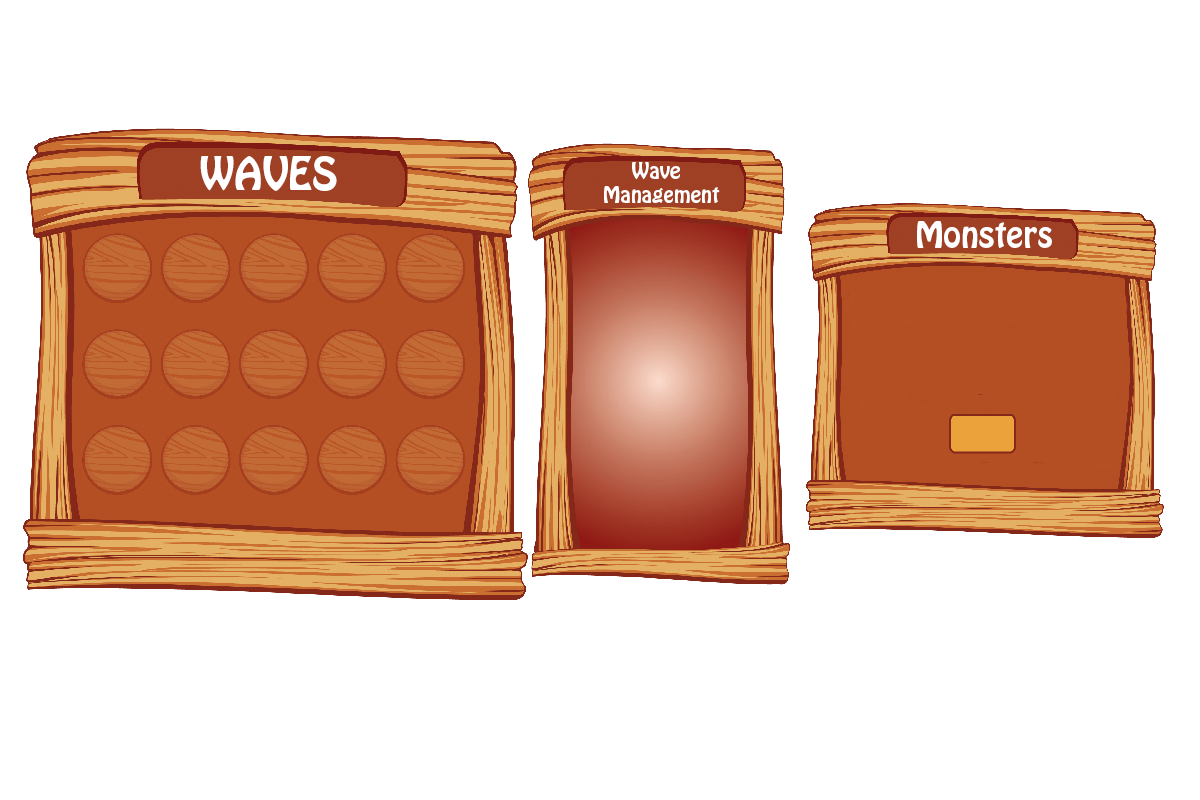
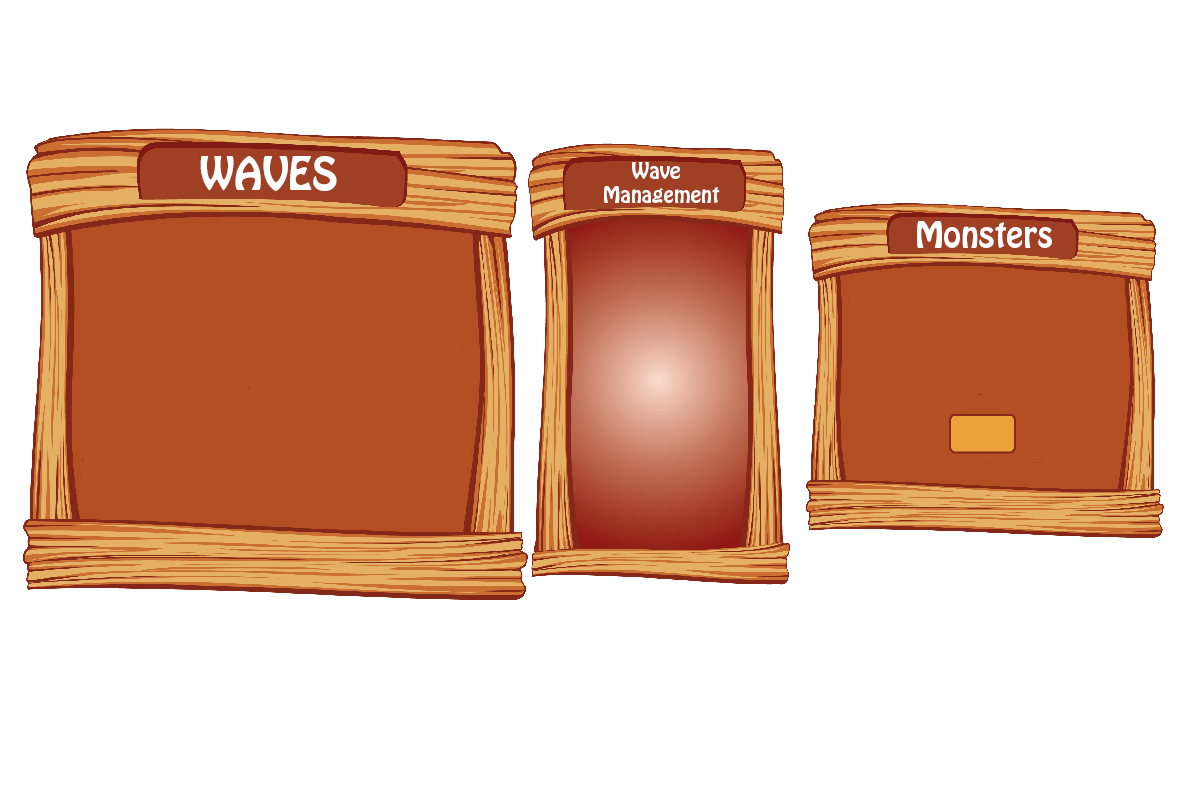
Level background optimisation. Pause Menu working.

Changed region(s): [[0.0617, 0.5312, 0.4008, 0.625], [0.0617, 0.4062, 0.4008, 0.5], [0.0617, 0.2812, 0.4008, 0.375]]

diff --git a/src/warcraftTD/WorldGame.java b/src/warcraftTD/WorldGame.java
@@ -1,6 +1,7 @@
 package warcraftTD;
 
 import warcraftTD.hud.InterfaceGame;
+import warcraftTD.hud.InterfacePause;
 import warcraftTD.hud.MainMenu;
 import warcraftTD.libs.StdDraw;
 import warcraftTD.monsters.Monster;
@@ -12,10 +13,12 @@ import warcraftTD.utils.Wallet;
 
 import javax.sound.sampled.LineUnavailableException;
 import javax.sound.sampled.UnsupportedAudioFileException;
+import java.awt.*;
 import java.io.IOException;
 import java.lang.reflect.Constructor;
 import java.lang.reflect.InvocationTargetException;
 import java.util.*;
+import java.util.List;
 import java.util.stream.Collectors;
 
 public class WorldGame extends World {
@@ -23,12 +26,17 @@ public class WorldGame extends World {
   private List<Monster> monsters = new ArrayList<Monster>();
   private int totalMonsterAmount;
 
-
+  private boolean needKeyRelease;
+  private boolean pause;
   // l'ensemble des cases du chemin
   private List<Position> paths;
 
+  private Image pauseBackground;
+  private Image levelBackground;
+
   // L'interface du jeu
   private InterfaceGame HUD;
+  private InterfacePause hudPause;
 
   // le porte monnaie du joueur
   private Wallet player_wallet;
@@ -154,6 +162,20 @@ public class WorldGame extends World {
       this.totalMonsterAmount = this.waves.get(0).monsterAmount();
     }
 
+    this.needKeyRelease = false;
+    this.pause = false;
+    this.initTerrain();
+  }
+
+  public void initTerrain(){
+    this.drawBackground();
+    if (this.displayWater) {
+      this.drawWater();
+    }
+    this.drawPath();
+    StdDraw.show();
+    StdDraw.save("images/currentlevel.png");
+    this.levelBackground = StdDraw.pictureNget(0.5,0.5,"images/currentlevel.png",1.0,1.0);
   }
 
   /**
@@ -347,6 +369,7 @@ public class WorldGame extends World {
    */
   @Override
   public void drawInfos() {
+    if(this.pause) this.hudPause.updateInterface(StdDraw.mouseX(), StdDraw.mouseY(), this.getDelta_time());
     this.HUD.updateInterface(StdDraw.mouseX(), StdDraw.mouseY(), this.getDelta_time());
   }
 
@@ -440,6 +463,10 @@ public class WorldGame extends World {
     }
   }
 
+  public void drawLevel(){
+    StdDraw.picture(0.5, 0.5, "images/currentlevel.png", 1.0, 1.0);
+  }
+
   /**
    * Met à jour toutes les informations du plateau de jeu ainsi que les déplacements des monstres et les attaques des tours.
    *
@@ -447,11 +474,13 @@ public class WorldGame extends World {
    */
   @Override
   public int update() {
-    this.drawBackground();
-    if (this.displayWater) {
-      this.drawWater();
+    if(this.pause){
+      StdDraw.picture(0.5, 0.5, "images/pauseTemporaryFile.png", 1.0, 1.0);
+      StdDraw.picture(0.5, 0.5, "images/blurtest.png", 1.0, 1.0);
+      this.drawInfos();
+      return this.life;
     }
-    this.drawPath();
+    this.drawLevel();
     this.updateWave();
     this.updateMonsters();
     this.updateTowers();
@@ -459,7 +488,6 @@ public class WorldGame extends World {
     this.drawInfos();
     return this.life;
   }
-
 
   /**
    * Vérifie lorsque l'utilisateur clique sur sa souris qu'il peut:
@@ -476,6 +504,11 @@ public class WorldGame extends World {
     double normalizedY = (int) (y / this.getSquareHeight()) * this.getSquareHeight() + this.getSquareHeight() / 2;
     Position p = new Position(normalizedX, normalizedY);
     Position mousep = new Position((int) ((normalizedX * this.getNbSquareX())), (int) ((normalizedY * this.getNbSquareY())));
+
+    if(this.pause){
+      this.hudPause.onClick(x,y, mouseButton);
+      return;
+    }
 
     if (this.HUD.onClick(x, y, mouseButton)) return;
 
@@ -519,6 +552,25 @@ public class WorldGame extends World {
     this.setNeedReleaseMouse(true);
   }
 
+  public void pressingEscape() throws UnsupportedAudioFileException, IOException, LineUnavailableException {
+    this.needKeyRelease = true;
+    this.pause = !this.pause;
+
+    if(this.pause){
+      if(this.hudPause==null) this.hudPause = new InterfacePause(this);
+      this.hudPause.getBox().showBox(0.8,0.0,1.5);
+      StdDraw.save("images/pauseTemporaryFile.png");
+      this.pauseBackground = StdDraw.pictureNget(0.5,0.5,"images/pauseTemporaryFile.png",1.0,1.0);
+    } else {
+      exitPause();
+    }
+  }
+
+  public void exitPause(){
+    this.pause = false;
+    if(this.pauseBackground!=null) this.pauseBackground.flush();
+  }
+
   /**
    * Récupère la touche entrée au clavier ainsi que la position de la souris et met à jour le plateau en fonction de ces interractions
    */
@@ -533,6 +585,20 @@ public class WorldGame extends World {
     }
 
     super.run();
+  }
+
+  @Override
+  public void endWorld() throws UnsupportedAudioFileException, IOException, LineUnavailableException {
+    if(this.levelBackground!=null) this.levelBackground.flush();
+    if(this.pauseBackground!=null) this.pauseBackground.flush();
+    super.endWorld();
+  }
+
+  @Override
+  public void updateEvent() throws UnsupportedAudioFileException, IOException, LineUnavailableException {
+    if (StdDraw.isKeyPressed(27)) {
+      if(!needKeyRelease) pressingEscape();
+    } else if(this.needKeyRelease) this.needKeyRelease = false;
   }
 
   public List<Monster> getMonsters() {

diff --git a/src/warcraftTD/hud/HorizontalGroupBox.java b/src/warcraftTD/hud/HorizontalGroupBox.java
@@ -18,7 +18,8 @@ public class HorizontalGroupBox extends ClickableElement {
   private double fromy;
   private double fromx;
   private boolean forward_anim;
-  private final double speed;
+  private double speed;
+  private boolean moving;
 
   private final Position initialPos;
   private String background = "";
@@ -83,8 +84,14 @@ public class HorizontalGroupBox extends ClickableElement {
   public void update(double MouseX, double MouseY, double delta_time) {
     if (this.isVisible()) {
 
-      if (this.deltay > 0.0) this.deltay -= this.speed * delta_time;
-      if (this.deltax > 0.0) this.deltax -= this.speed * delta_time;
+      if (this.deltay > 0.0) {
+        this.deltay -= this.speed * delta_time;
+        if(this.deltay<0.0) this.deltay = 0.0;
+      }
+      if (this.deltax > 0.0){
+        this.deltax -= this.speed * delta_time;
+        if(this.deltax<0.0) this.deltax = 0.0;
+      }
 
       if (this.forward_anim)
         this.setPosition(new Position(this.initialPos.getX() - this.deltax, this.initialPos.getY() - this.deltay));
@@ -99,8 +106,13 @@ public class HorizontalGroupBox extends ClickableElement {
       while (i.hasNext()) {
         el = i.next();
         if(this.deltay > 0.0 || this.deltax > 0.0) el.element.setPosition(new Position((this.getPosition().getX() - (this.getWidth() / 2) + el.relativepos.getX() * this.getWidth()), (this.getPosition().getY() - (this.getHeight() / 2) + el.relativepos.getY() * this.getHeight())));
+        else if(this.moving) {
+          el.element.setPosition(new Position((this.getPosition().getX() - (this.getWidth() / 2) + el.relativepos.getX() * this.getWidth()), (this.getPosition().getY() - (this.getHeight() / 2) + el.relativepos.getY() * this.getHeight())));
+        }
         el.element.update(MouseX, MouseY, delta_time);
       }
+
+      if(this.moving && !(this.deltay > 0.0 || this.deltax > 0.0)) this.moving = false;
 
       if(this.garbage.size()>0){
         i = this.garbage.iterator();
@@ -142,7 +154,7 @@ public class HorizontalGroupBox extends ClickableElement {
     }
   }
 
-  public void ShowBox(double fromy, double fromx) {
+  public void showBox(double fromy, double fromx) {
     this.deltax = fromx;
     this.deltay = fromy;
     this.fromy = fromy;
@@ -150,6 +162,19 @@ public class HorizontalGroupBox extends ClickableElement {
     this.setVisible(true);
     this.forward_anim = true;
     if(deltax==0.0 && deltay==0.0) initialUpdateRelativePosition();
+    else this.moving = true;
+  }
+
+  public void showBox(double fromy, double fromx, double speed) {
+    this.speed = speed;
+    this.deltax = fromx;
+    this.deltay = fromy;
+    this.fromy = fromy;
+    this.fromx = fromx;
+    this.setVisible(true);
+    this.forward_anim = true;
+    if(deltax==0.0 && deltay==0.0) initialUpdateRelativePosition();
+    else this.moving = true;
   }
 
   public void HideBox() {

diff --git a/src/warcraftTD/hud/InterfacePause.java b/src/warcraftTD/hud/InterfacePause.java
@@ -1,0 +1,43 @@
+package warcraftTD.hud;
+
+import warcraftTD.WorldGame;
+import warcraftTD.utils.Position;
+
+import javax.sound.sampled.LineUnavailableException;
+import javax.sound.sampled.UnsupportedAudioFileException;
+import java.io.IOException;
+
+public class InterfacePause extends Interface{
+    private HorizontalGroupBox box;
+    private WorldGame world;
+
+    public HorizontalGroupBox getBox() {
+        return this.box;
+    }
+
+    public InterfacePause(WorldGame world) throws UnsupportedAudioFileException, IOException, LineUnavailableException {
+        this.world = world;
+
+        this.box = new HorizontalGroupBox(new Position(0.5,0.5),0.45,0.4,this, "images/pauseTab.png");
+        this.getListElements().add(this.box);
+        Button btn = new Button(new Position(0.5,0.57),0.2,0.07,"images/resumeButton.png","images/resumeButton_hover.png","resume",this);
+        this.box.addHUDElement(btn);
+        btn = new Button(new Position(0.5,0.35),0.2,0.07,"images/quitToMenuButton.png","images/quitToMenuButton_hover.png","quit",this);
+        this.box.addHUDElement(btn);
+    }
+
+
+    @Override
+    public void makeAction(String action, Element from) throws IOException, LineUnavailableException, UnsupportedAudioFileException {
+        switch (action){
+            case "resume":
+                this.world.exitPause();
+                this.world.setNeedReleaseMouse(true);
+                break;
+            case "quit":
+                this.world.setEnd(true);
+                this.world.setNeedReleaseMouse(true);
+                break;
+        }
+    }
+}

diff --git a/src/warcraftTD/libs/StdDraw.java b/src/warcraftTD/libs/StdDraw.java
@@ -1423,6 +1423,27 @@ public final class StdDraw implements ActionListener, MouseListener, MouseMotion
     draw();
   }
 
+  // Same as picture but it's not saving the image in cache
+  public static Image pictureNget(double x, double y, String filename, double scaledWidth, double scaledHeight) {
+    Image image = getImage(filename);
+    if (scaledWidth < 0) throw new IllegalArgumentException("width  is negative: " + scaledWidth);
+    if (scaledHeight < 0) throw new IllegalArgumentException("height is negative: " + scaledHeight);
+    double xs = scaleX(x);
+    double ys = scaleY(y);
+    double ws = factorX(scaledWidth);
+    double hs = factorY(scaledHeight);
+    if (ws < 0 || hs < 0) throw new IllegalArgumentException("image " + filename + " is corrupt");
+    if (ws <= 1 && hs <= 1) pixel(x, y);
+    else {
+      offscreen.drawImage(image, (int) Math.round(xs - ws / 2.0),
+              (int) Math.round(ys - hs / 2.0),
+              (int) Math.round(ws),
+              (int) Math.round(hs), null);
+    }
+    draw();
+    return image;
+  }
+
   public static void pictureHeight(double x, double y, String filename, double height) {
     Image image = getImage(filename);
     if (height < 0) throw new IllegalArgumentException("height  is negative: " + height);

diff --git a/src/warcraftTD/hud/InterfaceEditor.java b/src/warcraftTD/hud/InterfaceEditor.java
@@ -285,7 +285,7 @@ public class InterfaceEditor extends Interface{
     }
 
     public void stopBuilding(){
-        this.settingsBox.ShowBox(0.0,0.0);
+        this.settingsBox.showBox(0.0,0.0);
         this.building_text.setVisible(false);
         this.building_type = TypeBuildEditor.None;
     }
@@ -428,7 +428,7 @@ public class InterfaceEditor extends Interface{
                 this.toggleBottomToolbar(false);
                 this.world.setNeedReleaseMouse(true);
 
-                this.settingsBox.ShowBox(0.0,0.0);
+                this.settingsBox.showBox(0.0,0.0);
                 break;
             case "ClosingSettings":
                 this.toggleBottomToolbar(true);
@@ -534,7 +534,7 @@ public class InterfaceEditor extends Interface{
                 break;
             case "wave":
                 toggleBottomToolbar(false);
-                this.waveBox.ShowBox(1.0,0.0);
+                this.waveBox.showBox(1.0,0.0);
                 this.world.setNeedReleaseMouse(true);
                 break;
             case "addWave":

diff --git a/src/warcraftTD/hud/InterfaceGame.java b/src/warcraftTD/hud/InterfaceGame.java
@@ -142,7 +142,7 @@ public class InterfaceGame extends Interface{
   public void makeAction(String action, Element from) {
     switch (action) {
       case "Shopping":
-        this.shopBox.ShowBox(0.3, 0.0);
+        this.shopBox.showBox(0.3, 0.0);
         this.world.setNeedReleaseMouse(true);
         this.shop_btn.setVisible(false);
         break;
@@ -240,7 +240,7 @@ public class InterfaceGame extends Interface{
       soundTower.play(0.5);
       this.upgradingTower = tower;
       this.world.setNeedReleaseMouse(true);
-      this.upgradeBox.ShowBox(0.3, 0.0);
+      this.upgradeBox.showBox(0.3, 0.0);
       this.shop_btn.setVisible(false);
 
       this.upgradeSpecialIm_icon.setSprite(tower.getSprite_HUD_special());

diff --git a/src/warcraftTD/hud/MainMenu.java b/src/warcraftTD/hud/MainMenu.java
@@ -2,7 +2,6 @@ package warcraftTD.hud;
 
 import warcraftTD.World;
 import warcraftTD.WorldEditor;
-import warcraftTD.WorldGame;
 import warcraftTD.libs.StdDraw;
 import warcraftTD.utils.Animation;
 import warcraftTD.utils.Level;
@@ -51,7 +50,7 @@ public class MainMenu extends Interface {
         this.title = new Image(new Position(0.5,0.85), 0.8,0.25,this, "images/titlegame.png");
         this.getListElements().add(this.title);
 
-        this.groupBox.ShowBox(0.5,0.0);
+        this.groupBox.showBox(0.5,0.0);
 
         btn = new Button(new Position(0.105,0.055),0.2,0.1,"images/leveleditor_button.png","images/leveleditor_button_hover.png","leveleditor", this);
         this.getListElements().add(btn);

diff --git a/src/warcraftTD/World.java b/src/warcraftTD/World.java
@@ -154,6 +154,8 @@ public abstract class World {
                 this.needReleaseMouse = false;
             }
 
+
+            this.updateEvent();
             this.update();
             StdDraw.show();
 
@@ -163,6 +165,10 @@ public abstract class World {
         }
 
         endWorld();
+    }
+
+    public void updateEvent() throws UnsupportedAudioFileException, IOException, LineUnavailableException {
+
     }
 
     public void endWorld() throws UnsupportedAudioFileException, IOException, LineUnavailableException {
